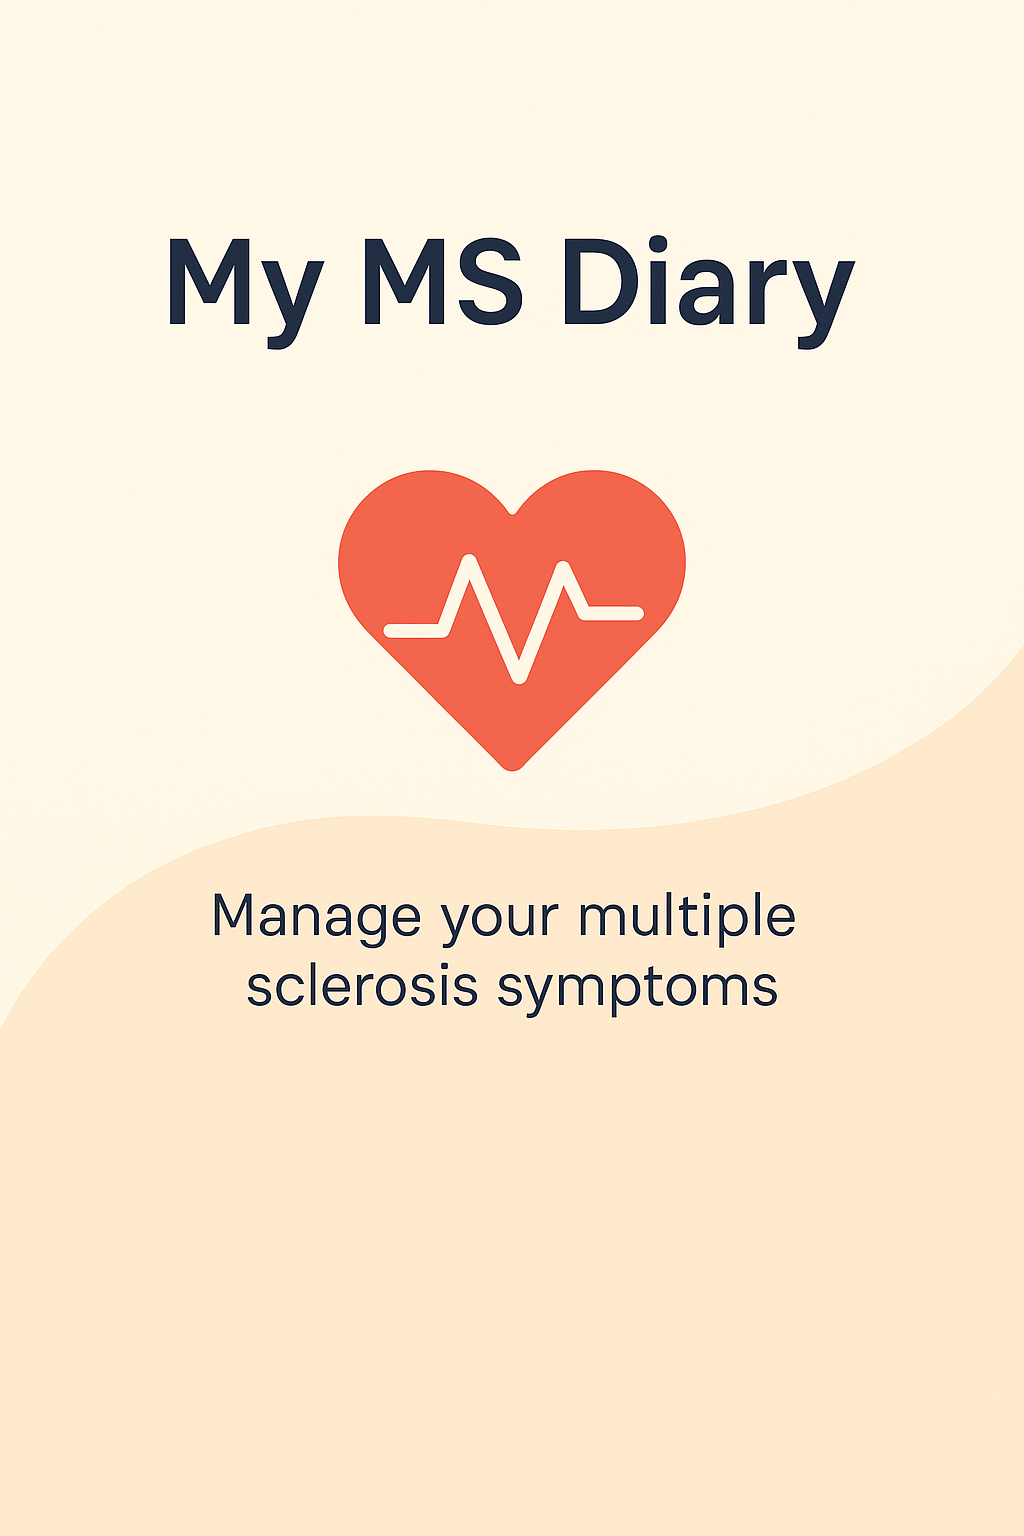
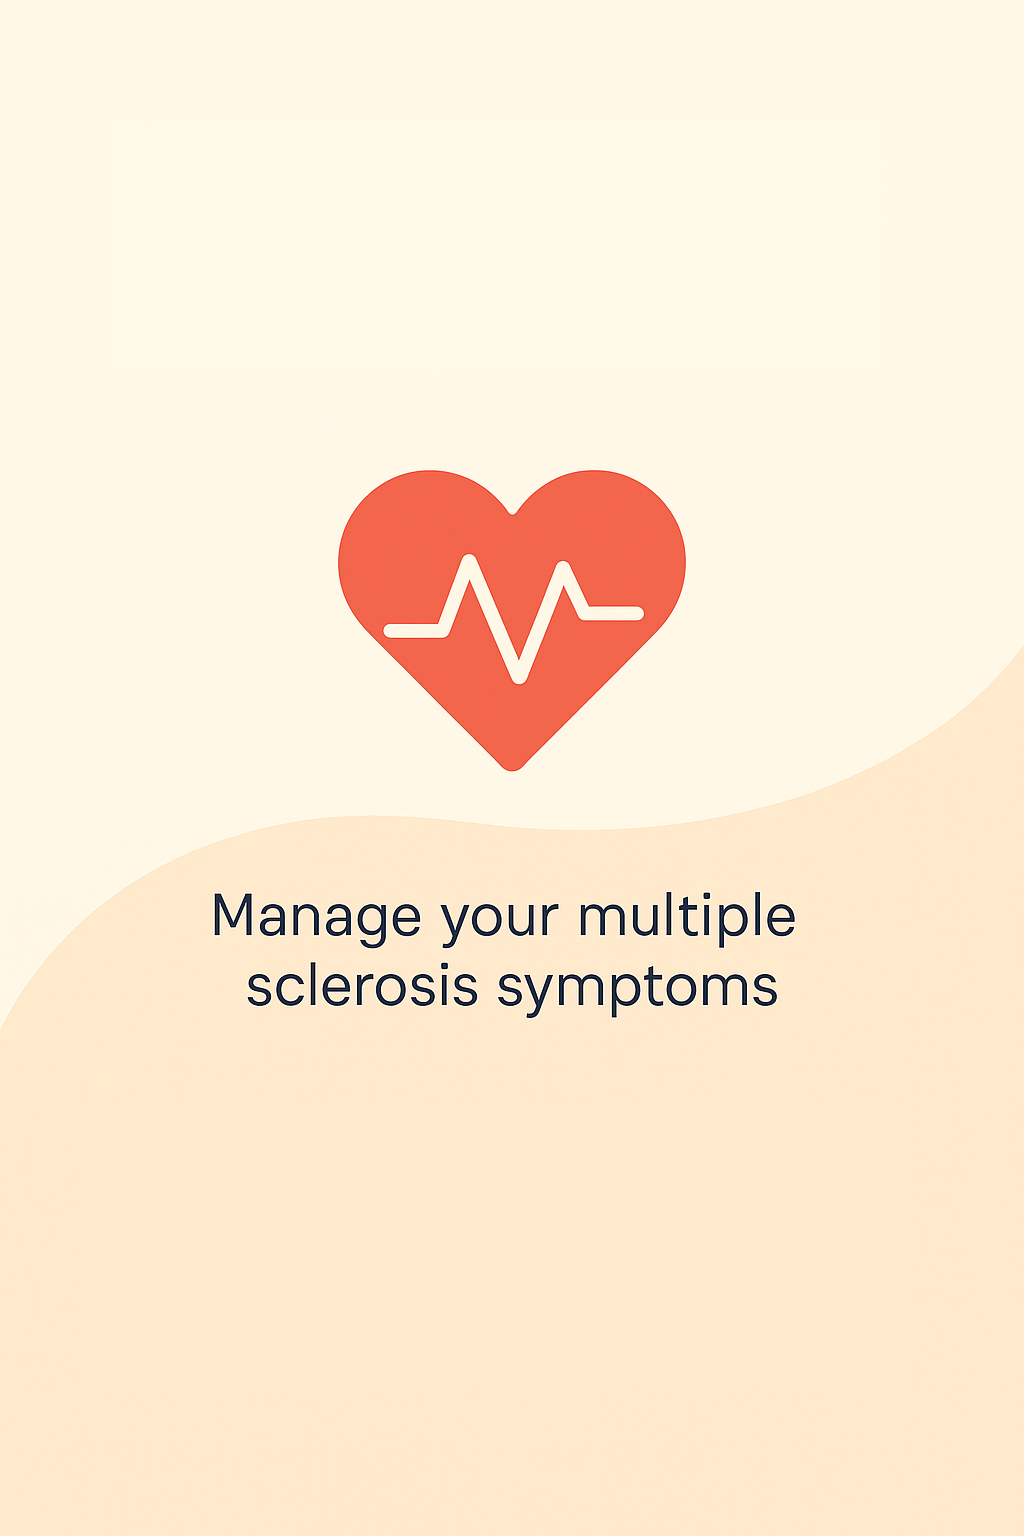
gc

Changed region(s): [[0.3438, 0.1562, 0.8438, 0.25], [0.1562, 0.1562, 0.3125, 0.25]]

diff --git a/mobile/screens/Intro.tsx b/mobile/screens/Intro.tsx
@@ -1,32 +1,39 @@
 import React from "react";
-import { View, Image, StyleSheet, Pressable, Text } from "react-native";
-// import bg from "../assets/bg-intro.png"; // or .png if that's your file
+import { ImageBackground, SafeAreaView, View, Pressable, Text, StyleSheet } from "react-native";
 const bg = require("../assets/bg-intro.png");
-
 
 export default function Intro({ navigation }: any) {
   return (
-    <View style={styles.root}>
-      <Image
-        source={bg}
-        style={StyleSheet.absoluteFillObject}
-        resizeMode="contain"       // ⚠ shows full image, no cropping
-      />
-      <View style={styles.content}>
-        <Text style={styles.title}>My MS Diary</Text>
-        <Pressable
-          onPress={() => navigation.replace("Tabs")}
-          style={({ pressed }) => [styles.btn, pressed && styles.btnPressed]}
-        >
-          <Text style={styles.btnText}>Get Started</Text>
-        </Pressable>
-      </View>
-    </View>
+    <ImageBackground
+      source={bg}
+      style={styles.bg}
+      resizeMode="cover"           // fill the screen; may crop edges
+    >
+      {/* Optional soft tint over image */}
+      <View style={styles.overlay} />
+
+      <SafeAreaView style={styles.safe}>
+        <View style={styles.content}>
+          <Text style={styles.title}>My MS Diary</Text>
+          <Pressable
+            onPress={() => navigation.replace("Tabs")}
+            style={({ pressed }) => [styles.btn, pressed && styles.btnPressed]}
+          >
+            <Text style={styles.btnText}>Get Started</Text>
+          </Pressable>
+        </View>
+      </SafeAreaView>
+    </ImageBackground>
   );
 }
 
 const styles = StyleSheet.create({
-  root: { flex: 1, backgroundColor: "#FFE9D1" }, // match your background tone
+  bg: { flex: 1 },
+  overlay: {
+    ...StyleSheet.absoluteFillObject,
+    backgroundColor: "rgba(255, 233, 209, 0.35)", // optional warm tint
+  },
+  safe: { flex: 1 },
   content: { flex: 1, alignItems: "center", justifyContent: "center", padding: 24 },
   title: { fontSize: 28, fontWeight: "700", color: "#2A2A2A", marginBottom: 24 },
   btn: { marginTop: 24, paddingVertical: 14, paddingHorizontal: 28, borderRadius: 24, backgroundColor: "#4A4A4A", elevation: 4 },
